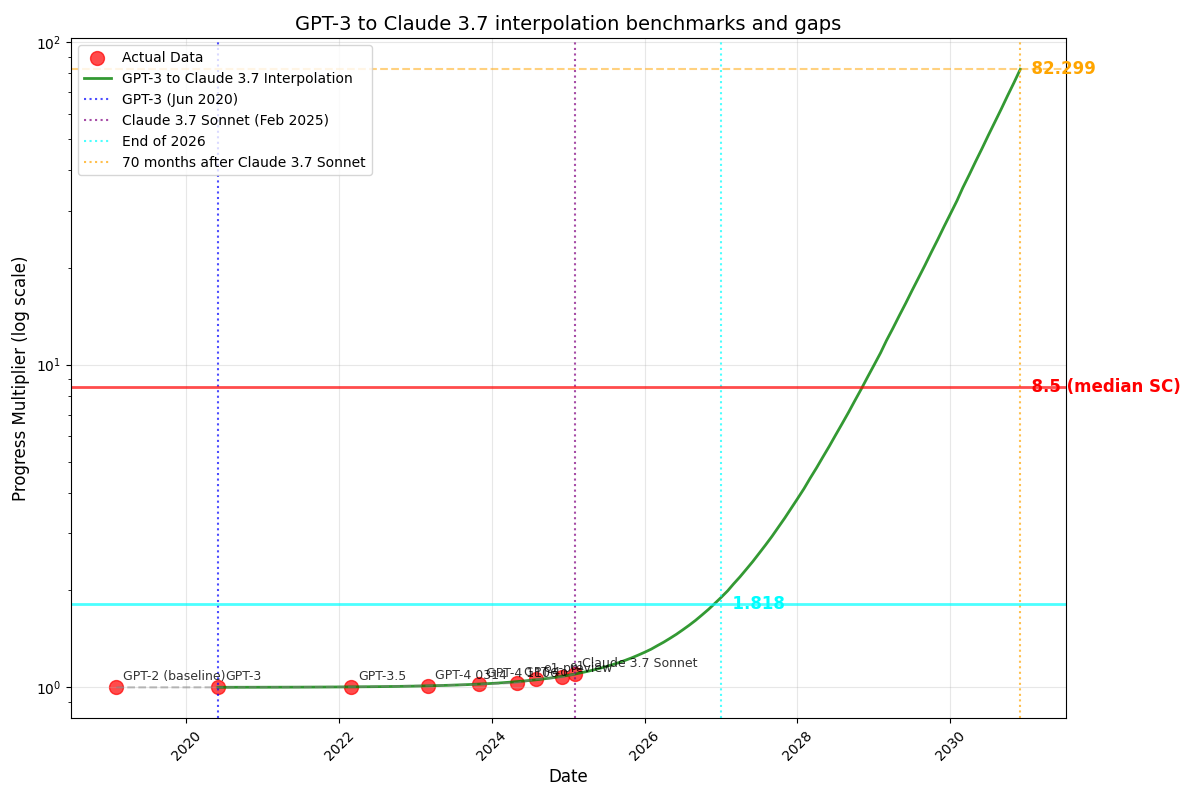
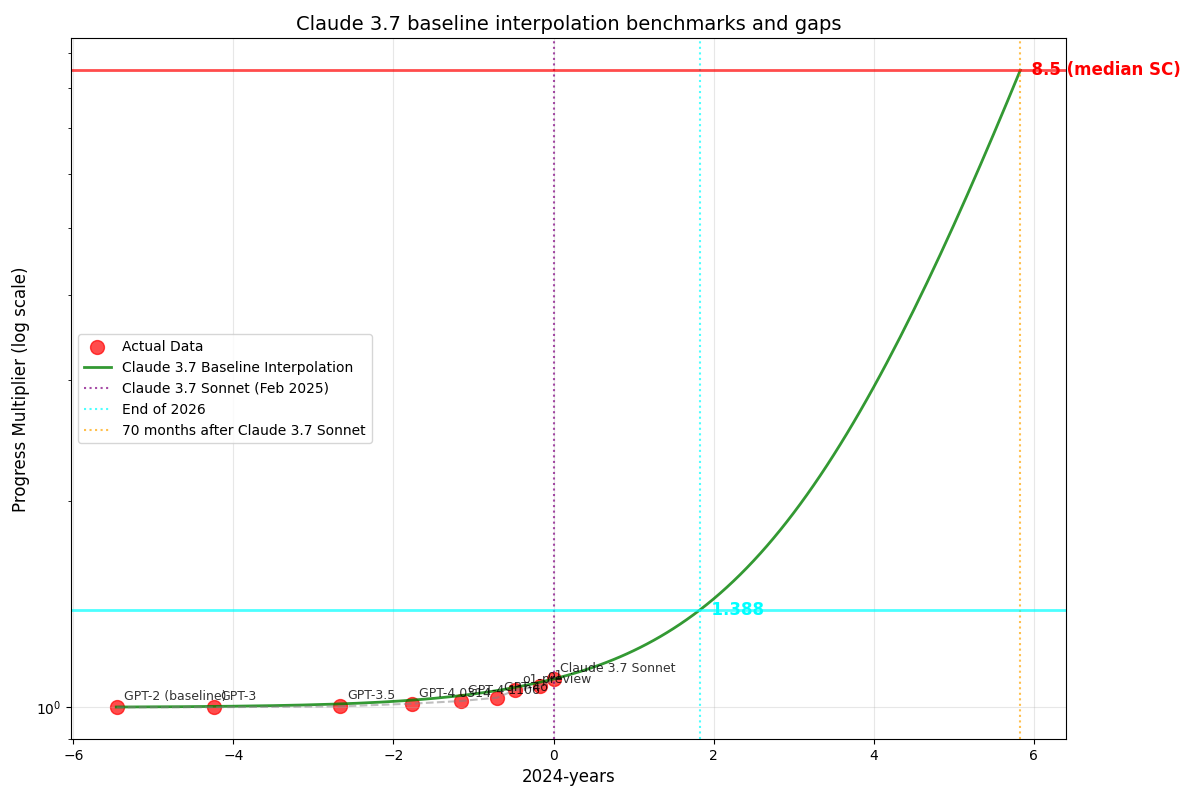
various improvements/fixes

diff --git a/timelines_modeling_exploration/explore_interpolation_methods.py b/timelines_modeling_exploration/explore_interpolation_methods.py
@@ -61,9 +61,9 @@ def create_interpolation_model():
     baseline_progress_multiplier = 1.1
     baseline_date = datetime(2025, 2, 1)
     
-    # 60 months later: progress multiplier = 8.5
+    # 70 months later: progress multiplier = 8.5
     future_progress_multiplier = 8.5
-    future_months = 60
+    future_months = 70
     
     # Calculate monthly multiplier on (progress multiplier - 1)
     # (progress_multiplier - 1) = baseline_excess * r^months
@@ -72,7 +72,7 @@ def create_interpolation_model():
     baseline_excess = baseline_progress_multiplier - 1  # 0.1
     future_excess = future_progress_multiplier - 1      # 7.5
     
-    # r^60 = future_excess / baseline_excess = 7.5 / 0.1 = 75
+    # r^70 = future_excess / baseline_excess = 7.5 / 0.1 = 75
     monthly_multiplier = (future_excess / baseline_excess) ** (1/future_months)
     
     print(f"Monthly multiplier (r): {monthly_multiplier:.6f}")
@@ -350,6 +350,115 @@ def fit_double_exponential_to_data(df):
         except:
             return None, x_data, y_data, model_names, 0, 0
 
+def fit_double_exponential_to_data_months_since_gpt2(df):
+    """Fit a double exponential to the progress multiplier data using 2024-months since GPT-2 (historical data only)"""
+    # Convert to 2024-years for each data point
+    model_2024_years_orig, parsed_dates = convert_to_2024_years(df)
+    
+    # Find GPT-2 date and its 2024-years value
+    gpt2_date = None
+    gpt2_2024_years = None
+    reference_date = datetime(2025, 2, 1)  # Claude 3.7 Sonnet reference
+    
+    for idx, row in df.iterrows():
+        try:
+            if 'GPT-2' in str(row['Column 1']):
+                month, year = row['Date'].split('/')
+                gpt2_date = datetime(int(year), int(month), 1)
+                gpt2_2024_years = model_2024_years_orig[idx]
+                break
+        except:
+            continue
+    
+    if gpt2_date is None or gpt2_2024_years is None:
+        print("Could not find GPT-2 data point")
+        return None, None, None, None, 0
+    
+    # Parse data and convert to 2024-months since GPT-2 (NO target point added)
+    months_since_gpt2 = []
+    progress_multiplier_apr2025 = []
+    model_names = []
+    
+    for idx, row in df.iterrows():
+        try:
+            if model_2024_years_orig[idx] is not None:
+                # Convert 2024-years to 2024-months since GPT-2
+                months_since_gpt2_val = (model_2024_years_orig[idx] - gpt2_2024_years) * 12
+                months_since_gpt2.append(months_since_gpt2_val)
+                # Get progress multiplier w/Apr 2025 as 1
+                progress_multiplier_apr2025.append(row['Progress multiplier w/Apr 2025 as 1'])
+                model_names.append(row['Column 1'])
+        except:
+            continue
+    
+    # Convert to numpy arrays (NO target point added)
+    x_data = np.array(months_since_gpt2)
+    y_data = np.array(progress_multiplier_apr2025)
+    
+    # Fit double exponential
+    # Initial guess for parameters [a, b, c]
+    # We expect the function to grow, so let's start with reasonable values
+    initial_guess = [0.9, 0.001, 0.001]  # Smaller c since we're using months
+    
+    try:
+        # Set bounds for parameters to help with convergence
+        # Lower bounds: [a_min, b_min, c_min]
+        # Upper bounds: [a_max, b_max, c_max]
+        lower_bounds = [0.01, -10, 0.0001]  # Smaller c bounds for months
+        upper_bounds = [2.0, 10, 0.1]       # Smaller c bounds for months
+        
+        # Fit the double exponential
+        popt, pcov = curve_fit(double_exponential, x_data, y_data, 
+                              p0=initial_guess, bounds=(lower_bounds, upper_bounds), 
+                              maxfev=10000)
+        
+        # Calculate R-squared
+        y_pred = double_exponential(x_data, *popt)
+        ss_res = np.sum((y_data - y_pred) ** 2)
+        ss_tot = np.sum((y_data - np.mean(y_data)) ** 2)
+        r_squared = 1 - (ss_res / ss_tot)
+        
+        print(f"\nDouble Exponential Fit Results (2024-months since GPT-2, historical data only):")
+        print(f"Parameters: a={popt[0]:.6f}, b={popt[1]:.6f}, c={popt[2]:.6f}")
+        print(f"R-squared: {r_squared:.4f}")
+        print(f"Data points used: {len(x_data)} (historical data only)")
+        print(f"GPT-2 date: {gpt2_date.strftime('%b %Y')}")
+        print(f"GPT-2 is at 0 months in this scale")
+        
+        # Print residuals for debugging
+        print(f"\nResiduals Analysis (2024-months since GPT-2):")
+        for i, model in enumerate(model_names):
+            residual = y_data[i] - y_pred[i]
+            print(f"{model}: actual={y_data[i]:.4f}, predicted={y_pred[i]:.4f}, residual={residual:.4f}, months={x_data[i]:.1f}")
+        
+        print(f"Mean absolute error: {np.mean(np.abs(y_data - y_pred)):.6f}")
+        print(f"Max absolute error: {np.max(np.abs(y_data - y_pred)):.6f}")
+        
+        return popt, x_data, y_data, model_names, r_squared
+        
+    except Exception as e:
+        print(f"Double exponential fitting (months since GPT-2) failed: {e}")
+        # Try a simpler exponential fit as fallback
+        try:
+            print("Trying simple exponential fit as fallback...")
+            def simple_exp(x, a, b):
+                return a * np.exp(b * x)
+            
+            popt_simple, _ = curve_fit(simple_exp, x_data, y_data, maxfev=10000)
+            y_pred = simple_exp(x_data, *popt_simple)
+            ss_res = np.sum((y_data - y_pred) ** 2)
+            ss_tot = np.sum((y_data - np.mean(y_data)) ** 2)
+            r_squared = 1 - (ss_res / ss_tot)
+            
+            print(f"Simple exponential fit: a={popt_simple[0]:.6f}, b={popt_simple[1]:.6f}")
+            print(f"R-squared: {r_squared:.4f}")
+            
+            # Convert to double exponential format for consistency
+            popt_converted = [popt_simple[0], popt_simple[1], 0.0]
+            return popt_converted, x_data, y_data, model_names, r_squared
+        except:
+            return None, x_data, y_data, model_names, 0
+
 def load_and_plot_aird_estimates():
     """Load AIRD estimates CSV and plot progress multiplier vs. 80% time horizon"""
     
@@ -492,12 +601,12 @@ def load_and_plot_aird_estimates():
     # Print interpolation validation
     print("\nClaude 3.7 Sonnet Baseline Interpolation Validation:")
     print(f"At baseline (Claude 3.7 Sonnet, Feb 2025, 0 2024-years): {interpolate_fn(0):.3f}")
-    print(f"At 30 months (halfway to target, 2.5 2024-years): {interpolate_fn(30):.3f}")
-    print(f"At 60 months (target, 5 2024-years): {interpolate_fn(60):.3f}")
+    print(f"At 35 months (halfway to target, 2.92 2024-years): {interpolate_fn(35):.3f}")
+    print(f"At 70 months (target, 5.83 2024-years): {interpolate_fn(70):.3f}")
     
     # Calculate what the geomean formula gives for verification
     geomean_result = np.sqrt((1.1 - 1) * (8.5 - 1)) + 1
-    print(f"Geomean formula result for 30 months: {geomean_result:.3f}")
+    print(f"Geomean formula result for 35 months: {geomean_result:.3f}")
     
     # Print backcast examples (comparison of methods)
     print("\nBackcast Examples (Calendar years vs 2024-years comparison):")
@@ -924,7 +1033,10 @@ def load_and_plot_aird_estimates():
     # Second fit with target point included
     popt, x_data, y_data, model_names_de, r_squared, r_squared_hist = fit_double_exponential_to_data(df)
     
-    if popt is not None or popt_orig is not None:
+    # Third fit using 2024-months since GPT-2
+    popt_months, x_data_months, y_data_months, model_names_months, r_squared_months = fit_double_exponential_to_data_months_since_gpt2(df)
+    
+    if popt is not None or popt_orig is not None or popt_months is not None:
         # Calculate 2024-years for Claude 3.7 Sonnet and 60 months later
         claude_37_2024_years = 0.0  # Claude 3.7 Sonnet is the reference point
         target_2024_years = 5.0  # 60 months = 5 years in 2024-years
@@ -991,7 +1103,7 @@ def load_and_plot_aird_estimates():
             # Customize first plot
             ax1.set_xlabel('2024-years', fontsize=12)
             ax1.set_ylabel('Progress Multiplier w/Apr 2025 as 1 (log scale)', fontsize=12)
-            ax1.set_title('Double Exponential Fit (Historical Data Only)', fontsize=14)
+            ax1.set_title('Double Exponential Fit (2024-years, includes negatives)', fontsize=14)
             ax1.grid(True, alpha=0.3)
             ax1.legend()
             
@@ -1105,6 +1217,84 @@ def load_and_plot_aird_estimates():
         
         # Show the plot
         plt.show()
+        
+        # NEW: Add the 2024-months since GPT-2 plot
+        if popt_months is not None:
+            print(f"\n" + "="*50)
+            print("DOUBLE EXPONENTIAL ANALYSIS (2024-months since GPT-2)")
+            print("="*50)
+            
+            # Calculate extrapolated target value
+            # Find Claude 3.7 Sonnet months value first
+            claude_37_months = 0  # Will be calculated from data
+            for i, model in enumerate(model_names_months):
+                if 'Claude 3.7 Sonnet' in model:
+                    claude_37_months = x_data_months[i]
+                    break
+            
+            # Calculate target at 60 months after Claude 3.7 Sonnet
+            target_months = claude_37_months + 60
+            target_value_months = double_exponential(target_months, *popt_months)
+            
+            print(f"Extrapolated value at 60 months after Claude 3.7 Sonnet: {target_value_months:.6f}")
+            
+            fig_months = plt.figure(figsize=(12, 8))
+            ax_months = fig_months.add_subplot(111)
+            
+            # Plot historical data points
+            ax_months.scatter(x_data_months, y_data_months, 
+                             s=100, alpha=0.7, color='red', label='Historical Data', zorder=5)
+            
+            # Add model names as labels
+            for i, model in enumerate(model_names_months):
+                ax_months.annotate(model, (x_data_months[i], y_data_months[i]), 
+                                  xytext=(5, 5), textcoords='offset points', fontsize=9, alpha=0.8)
+            
+            # Create smooth curve for fitted function (extended to show extrapolation)
+            x_smooth_months = np.linspace(min(x_data_months), target_months, 1000)
+            y_smooth_months = double_exponential(x_smooth_months, *popt_months)
+            
+            # Plot fitted curve
+            ax_months.plot(x_smooth_months, y_smooth_months, color='blue', linewidth=2, alpha=0.8, 
+                          label=f'Double Exponential Fit (R² = {r_squared_months:.4f})')
+            
+            # Plot extrapolated target point
+            ax_months.scatter([target_months], [target_value_months], s=100, alpha=0.7, color='green', 
+                             label=f'Extrapolated Target: {target_value_months:.3f}', zorder=5, marker='s')
+            
+            # Add vertical line at GPT-2 (0 months)
+            ax_months.axvline(x=0, color='green', linestyle=':', alpha=0.7, label='GPT-2 (Feb 2019)')
+            
+            # Add vertical line at Claude 3.7 Sonnet
+            ax_months.axvline(x=claude_37_months, color='purple', linestyle=':', alpha=0.7, 
+                             label='Claude 3.7 Sonnet (Feb 2025)')
+            
+            # Add vertical line at target (60 months after Claude 3.7 Sonnet)
+            ax_months.axvline(x=target_months, color='orange', linestyle=':', alpha=0.7, 
+                             label='60 months after Claude 3.7 Sonnet')
+            
+            # Add horizontal line at extrapolated target value
+            ax_months.axhline(y=target_value_months, color='green', linestyle='--', alpha=0.5)
+            
+            # Add text showing extrapolated target value
+            ax_months.text(target_months, target_value_months, f'  {target_value_months:.3f}', 
+                          verticalalignment='center', fontsize=12, color='green', fontweight='bold')
+            
+            # Set log scale for y-axis
+            ax_months.set_yscale('log')
+            
+            # Customize plot
+            ax_months.set_xlabel('2024-months since GPT-2', fontsize=12)
+            ax_months.set_ylabel('Progress Multiplier w/Apr 2025 as 1 (log scale)', fontsize=12)
+            ax_months.set_title('Double Exponential Fit (2024-months from GPT-2=0)', fontsize=14)
+            ax_months.grid(True, alpha=0.3)
+            ax_months.legend()
+            
+            # Make layout tight
+            plt.tight_layout()
+            
+            # Show the plot
+            plt.show()
         
     else:
         print("Double exponential fitting failed - skipping plot")
